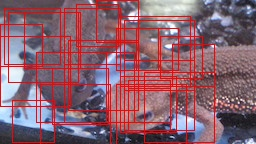
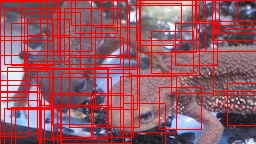
Q.98 update

diff --git a/Question_91_100/my_answer_98.py b/Question_91_100/my_answer_98.py
@@ -169,22 +169,28 @@ H, W, C = img.shape
 gray = 0.2126*img[...,2] + 0.7152*img[...,1] + 0.0722*img[...,0]
 
 recs = np.array(((42, 42), (56, 56), (70, 70)), dtype=np.int)
-detect = []
-for y in range(0, H-42, 4):
-    for x in range(0, W-42, 4):
-        for r in range(len(recs)):
-            crop = gray[y:np.min((y+recs[r][0], H)), x:np.min((x+recs[r][1], W))]
+detects = np.ndarray((0, 5), dtype=np.float32)
+for y in range(0, H, 4):
+    for x in range(0, W, 4):
+        for rec in recs:
+            dh = int(rec[0] // 2)
+            dw = int(rec[1] // 2)
+            x1 = max(x-dw, 0)
+            x2 = min(x+dw, W)
+            y1 = max(y-dh, 0)
+            y2 = min(y+dh, H)
+            crop = gray[y1:y2, x1:x2]
             ch, cw = crop.shape
             resize = bi_linear(crop, rS/ch, rS/cw)
             feature = hog(resize)
             p = nn.forward(feature)
             if p >= 0.7:
-                detect.append([x, y, np.min((x+recs[r][1], W)), np.min((y+recs[r][0], H)), p[0]])
+                detects = np.vstack((detects, np.array((x1, y1, x2, y2, p[0]))))
 
-print(detect)
-d = detect
+print(detects)
+d = detects
 out = img.copy()
-for i in range(len(detect)):
+for i in range(len(d)):
     out = cv2.rectangle(out, (int(d[i][0]), int(d[i][1])), (int(d[i][2]), int(d[i][3])), (0, 0, 255), 1)
 
 cv2.imwrite("my_answer_98.jpg", out.astype(np.uint8))
